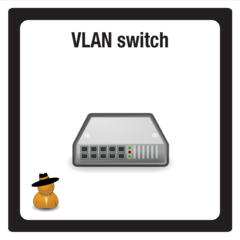
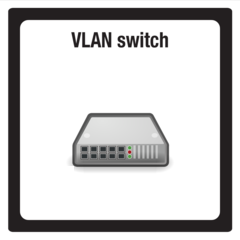
added asset and infocon to the hud moved hud to top of page moved lo0t and patch to hud built out the tile area to a full 6x6 grid ready for other tile layouts restored the tiles without characters (these got overwritten somehow)

Changed region(s): [[0.1167, 0.7, 0.2625, 0.9042]]

diff --git a/html/app/index.html b/html/app/index.html
@@ -32,6 +32,30 @@
             <div class="header">
                 <h1><span class="red">[</span>d0x3d!<span class="red">]</span></h1>
             </div>
+                        <div class="row hud">
+                <div class="col-md-2" id="loot">
+                    <img src="images/backs/back_lo0t.png" class="img-responsive" width="240" height="176" alt="lo0t cards">
+                </div>
+
+                <div class="col-md-1">
+                    <img src="images/stickers/sticker_auth_unclaimed.png" width="120" height="120" class="asset img-responsive" alt="Authentication Credentials" data-placement="bottom" data-toggle="tooltip" data-container="body" data-html="true" title="<h2>[authentication credentials]</h2> <p>Authentication credentials are data you use to prove your identity. They can be something you have (like a driver’s license), something you know (like a password), or something you are (like a fingerprint). When stolen, someone could use these credentials to impersonate you.</p><p>You can retrieve your authentication credentials by placing 4 matching lo0t cards on the Certificate Services or Single Sign On Service nodes of the network</p>">
+                    <br>                    
+                    <img src="images/stickers/sticker_financial_unclaimed.png" width="120" height="120" class="asset img-responsive" alt="Financial Data"  data-placement="bottom" data-toggle="tooltip" data-container="body" data-html="true" title="<h2>[financial data]</h2> <p>If it’s worth money or about money, it's financial data: credit card numbers, bank account numbers, tax data, electronic gift certificates, e-cash, quarterly earnings reports, etc.</p><p>You can retrieve your financial data by placing 4 matching lo0t cards on the Customer Database or Sales Database nodes of the network</p>">
+                </div>
+                <div class="col-md-1">
+                    <img src="images/stickers/sticker_ip_unclaimed.png" width="120" height="120" class="asset img-responsive" alt="Intellectual Property" data-placement="bottom" data-toggle="tooltip" data-container="body" data-html="true" title="<h2>[intellectual property]</h2> <p>Intellectual property is data that came out of your head or your hands, like inventions and creative works: an essay for school, an original photo, a piece of software, a secret recipe, your band’s demo tracks, your YouTube videos, etc.</p><p>You can retrieve your intellectual property by placing 4 matching lo0t cards on the Network File Server or Backup File Server nodes of the network</p>">
+                    <br>                    
+                    <img src="images/stickers/sticker_pii_unclaimed.png" width="120" height="120" class="asset img-responsive" alt="Personally Identifiable Information" data-placement="bottom" data-toggle="tooltip" data-container="body" data-html="true" title="<h2>[personally identifiable information]</h2> <p>Personally identifiable information is data, about you or someone else: your home phone number, your address, photos of you and your friends, your grades, your medical records, etc.</p><p>You can retrieve your personally identifiable information by placing 4 matching lo0t cards on the IMAP Server or SMTP Server nodes of the network</p>">
+                </div>
+
+                <div class="col-md-6" id="infocon">
+                    <img src="images/infocon/infocon0.png" class="img-responsive" width="720" height="299" alt="infocon">
+                </div>
+
+                <div class="col-md-2" id="patch">
+                    <img src="images/backs/back_patch.png" class="img-responsive" width="240" height="176" alt="patch cards">
+                </div>
+            </div>
 
             <div class="row">
                 <div class="col-md-10 col-md-offset-1" id="player3">
@@ -47,10 +71,51 @@
                 <div class="col-md-10" id="tiles">
                     <!-- tiles, lo0t and patch cards -->
                     <div class="row" id="row1">
-                        <div class="col-sm-2" id="loot">
-                            <img src="images/backs/back_lo0t.png" class="img-responsive" width="240" height="176" alt="lo0t cards">
+                        <div class="col-sm-2" id="tile-1">
+                            <div class="tile scroll img-responsive">
+                                <div class="tile-wrapper" id="00">
+                                    <img src="" class="img-responsive" width="240" height="240" alt="">
+                                    <div class="tile-detail">
+                                        <div class="actions">
+                                            <div class="btn-group-vertical">
+                                                <button type="button" class="btn btn-info disabled">Move <span class="movenum"></span> of 3</button>
+                                                <button type="button" class="btn btn-default compromise">compromise</button>
+                                                <button type="button" class="btn btn-default pickup">pick up loot</button>
+                                                <button type="button" class="btn btn-default drop">drop loot</button>
+                                                <button type="button" class="btn btn-default give">give loot</button>
+                                                <button type="button" class="btn btn-default exchange">exchange loot</button>
+                                                <button type="button" class="btn btn-default move">move here</button>
+                                                <button type="button" class="btn btn-default recover">recover asset</button>
+                                                <button type="button" class="btn btn-default skip" onclick="skipMove()">skip move</button>
+                                            </div>
+                                        </div>
+                                    </div>
+                                </div>
+                            </div>
                         </div>
-                        <div class="col-sm-2 col-sm-offset-2" id="tile1">
+                        <div class="col-sm-2" id="tile0">
+                            <div class="tile scroll img-responsive">
+                                <div class="tile-wrapper" id="01">
+                                    <img src="" class="img-responsive" width="240" height="240" alt="">
+                                    <div class="tile-detail">
+                                        <div class="actions">
+                                            <div class="btn-group-vertical">
+                                                <button type="button" class="btn btn-info disabled">Move <span class="movenum"></span> of 3</button>
+                                                <button type="button" class="btn btn-default compromise">compromise</button>
+                                                <button type="button" class="btn btn-default pickup">pick up loot</button>
+                                                <button type="button" class="btn btn-default drop">drop loot</button>
+                                                <button type="button" class="btn btn-default give">give loot</button>
+                                                <button type="button" class="btn btn-default exchange">exchange loot</button>
+                                                <button type="button" class="btn btn-default move">move here</button>
+                                                <button type="button" class="btn btn-default recover">recover asset</button>
+                                                <button type="button" class="btn btn-default skip" onclick="skipMove()">skip move</button>
+                                            </div>
+                                        </div>
+                                    </div>
+                                </div>
+                            </div>
+                        </div>
+                        <div class="col-sm-2" id="tile1">
                             <div class="tile scroll img-responsive">
                                 <div class="tile-wrapper" id="02">
                                     <img src="" class="img-responsive" width="240" height="240" alt="">
@@ -94,12 +159,75 @@
                                 </div>
                             </div>
                         </div>
-                        <div class="col-sm-2 col-sm-offset-2" id="patch">
-                            <img src="images/backs/back_patch.png" class="img-responsive" width="240" height="176" alt="patch cards">
+                        <div class="col-sm-2" id="tile1">
+                            <div class="tile scroll img-responsive">
+                                <div class="tile-wrapper" id="04">
+                                    <img src="" class="img-responsive" width="240" height="240" alt="">
+                                    <div class="tile-detail">
+                                        <div class="actions">
+                                            <div class="btn-group-vertical">
+                                                <button type="button" class="btn btn-info disabled">Move <span class="movenum"></span> of 3</button>
+                                                <button type="button" class="btn btn-default compromise">compromise</button>
+                                                <button type="button" class="btn btn-default pickup">pick up loot</button>
+                                                <button type="button" class="btn btn-default drop">drop loot</button>
+                                                <button type="button" class="btn btn-default give">give loot</button>
+                                                <button type="button" class="btn btn-default exchange">exchange loot</button>
+                                                <button type="button" class="btn btn-default move">move here</button>
+                                                <button type="button" class="btn btn-default recover">recover asset</button>
+                                                <button type="button" class="btn btn-default skip" onclick="skipMove()">skip move</button>
+                                            </div>
+                                        </div>
+                                    </div>
+                                </div>
+                            </div>
+                        </div>
+                        <div class="col-sm-2" id="tile1">
+                            <div class="tile scroll img-responsive">
+                                <div class="tile-wrapper" id="05">
+                                    <img src="" class="img-responsive" width="240" height="240" alt="">
+                                    <div class="tile-detail">
+                                        <div class="actions">
+                                            <div class="btn-group-vertical">
+                                                <button type="button" class="btn btn-info disabled">Move <span class="movenum"></span> of 3</button>
+                                                <button type="button" class="btn btn-default compromise">compromise</button>
+                                                <button type="button" class="btn btn-default pickup">pick up loot</button>
+                                                <button type="button" class="btn btn-default drop">drop loot</button>
+                                                <button type="button" class="btn btn-default give">give loot</button>
+                                                <button type="button" class="btn btn-default exchange">exchange loot</button>
+                                                <button type="button" class="btn btn-default move">move here</button>
+                                                <button type="button" class="btn btn-default recover">recover asset</button>
+                                                <button type="button" class="btn btn-default skip" onclick="skipMove()">skip move</button>
+                                            </div>
+                                        </div>
+                                    </div>
+                                </div>
+                            </div>
                         </div>
                     </div>
                     <div class="row" id="row2">
-                        <div class="col-sm-2 col-sm-offset-2" id="tile3">
+                        <div class="col-sm-2" id="tile1">
+                            <div class="tile scroll img-responsive">
+                                <div class="tile-wrapper" id="10">
+                                    <img src="" class="img-responsive" width="240" height="240" alt="">
+                                    <div class="tile-detail">
+                                        <div class="actions">
+                                            <div class="btn-group-vertical">
+                                                <button type="button" class="btn btn-info disabled">Move <span class="movenum"></span> of 3</button>
+                                                <button type="button" class="btn btn-default compromise">compromise</button>
+                                                <button type="button" class="btn btn-default pickup">pick up loot</button>
+                                                <button type="button" class="btn btn-default drop">drop loot</button>
+                                                <button type="button" class="btn btn-default give">give loot</button>
+                                                <button type="button" class="btn btn-default exchange">exchange loot</button>
+                                                <button type="button" class="btn btn-default move">move here</button>
+                                                <button type="button" class="btn btn-default recover">recover asset</button>
+                                                <button type="button" class="btn btn-default skip" onclick="skipMove()">skip move</button>
+                                            </div>
+                                        </div>
+                                    </div>
+                                </div>
+                            </div>
+                        </div>
+                        <div class="col-sm-2" id="tile3">
                             <div class="tile scroll img-responsive">
                                 <div class="tile-wrapper" id="11">
                                     <img src="" class="img-responsive" width="240" height="240" alt="">
@@ -184,6 +312,28 @@
 											</div>
 										</div>
 									</div>
+                                </div>
+                            </div>
+                        </div>
+                        <div class="col-sm-2" id="tile1">
+                            <div class="tile scroll img-responsive">
+                                <div class="tile-wrapper" id="15">
+                                    <img src="" class="img-responsive" width="240" height="240" alt="">
+                                    <div class="tile-detail">
+                                        <div class="actions">
+                                            <div class="btn-group-vertical">
+                                                <button type="button" class="btn btn-info disabled">Move <span class="movenum"></span> of 3</button>
+                                                <button type="button" class="btn btn-default compromise">compromise</button>
+                                                <button type="button" class="btn btn-default pickup">pick up loot</button>
+                                                <button type="button" class="btn btn-default drop">drop loot</button>
+                                                <button type="button" class="btn btn-default give">give loot</button>
+                                                <button type="button" class="btn btn-default exchange">exchange loot</button>
+                                                <button type="button" class="btn btn-default move">move here</button>
+                                                <button type="button" class="btn btn-default recover">recover asset</button>
+                                                <button type="button" class="btn btn-default skip" onclick="skipMove()">skip move</button>
+                                            </div>
+                                        </div>
+                                    </div>
                                 </div>
                             </div>
                         </div>
@@ -457,7 +607,29 @@
                         </div>
                     </div>
                     <div class="row" id="row5">
-                        <div class="col-sm-2 col-sm-offset-2" id="tile19">
+                        <div class="col-sm-2" id="tile1">
+                            <div class="tile scroll img-responsive">
+                                <div class="tile-wrapper" id="40">
+                                    <img src="" class="img-responsive" width="240" height="240" alt="">
+                                    <div class="tile-detail">
+                                        <div class="actions">
+                                            <div class="btn-group-vertical">
+                                                <button type="button" class="btn btn-info disabled">Move <span class="movenum"></span> of 3</button>
+                                                <button type="button" class="btn btn-default compromise">compromise</button>
+                                                <button type="button" class="btn btn-default pickup">pick up loot</button>
+                                                <button type="button" class="btn btn-default drop">drop loot</button>
+                                                <button type="button" class="btn btn-default give">give loot</button>
+                                                <button type="button" class="btn btn-default exchange">exchange loot</button>
+                                                <button type="button" class="btn btn-default move">move here</button>
+                                                <button type="button" class="btn btn-default recover">recover asset</button>
+                                                <button type="button" class="btn btn-default skip" onclick="skipMove()">skip move</button>
+                                            </div>
+                                        </div>
+                                    </div>
+                                </div>
+                            </div>
+                        </div>
+                        <div class="col-sm-2" id="tile19">
                             <div class="tile scroll img-responsive">
                                 <div class="tile-wrapper" id="41">
                                     <img src="" class="img-responsive" width="240" height="240" alt="">
@@ -545,9 +717,75 @@
                                 </div>
                             </div>
                         </div>
+                        <div class="col-sm-2" id="tile1">
+                            <div class="tile scroll img-responsive">
+                                <div class="tile-wrapper" id="45">
+                                    <img src="" class="img-responsive" width="240" height="240" alt="">
+                                    <div class="tile-detail">
+                                        <div class="actions">
+                                            <div class="btn-group-vertical">
+                                                <button type="button" class="btn btn-info disabled">Move <span class="movenum"></span> of 3</button>
+                                                <button type="button" class="btn btn-default compromise">compromise</button>
+                                                <button type="button" class="btn btn-default pickup">pick up loot</button>
+                                                <button type="button" class="btn btn-default drop">drop loot</button>
+                                                <button type="button" class="btn btn-default give">give loot</button>
+                                                <button type="button" class="btn btn-default exchange">exchange loot</button>
+                                                <button type="button" class="btn btn-default move">move here</button>
+                                                <button type="button" class="btn btn-default recover">recover asset</button>
+                                                <button type="button" class="btn btn-default skip" onclick="skipMove()">skip move</button>
+                                            </div>
+                                        </div>
+                                    </div>
+                                </div>
+                            </div>
+                        </div>
                     </div>
                     <div class="row" id="row6">
-                        <div class="col-sm-2 col-sm-offset-4" id="tile23">
+                        <div class="col-sm-2" id="tile1">
+                            <div class="tile scroll img-responsive">
+                                <div class="tile-wrapper" id="50">
+                                    <img src="" class="img-responsive" width="240" height="240" alt="">
+                                    <div class="tile-detail">
+                                        <div class="actions">
+                                            <div class="btn-group-vertical">
+                                                <button type="button" class="btn btn-info disabled">Move <span class="movenum"></span> of 3</button>
+                                                <button type="button" class="btn btn-default compromise">compromise</button>
+                                                <button type="button" class="btn btn-default pickup">pick up loot</button>
+                                                <button type="button" class="btn btn-default drop">drop loot</button>
+                                                <button type="button" class="btn btn-default give">give loot</button>
+                                                <button type="button" class="btn btn-default exchange">exchange loot</button>
+                                                <button type="button" class="btn btn-default move">move here</button>
+                                                <button type="button" class="btn btn-default recover">recover asset</button>
+                                                <button type="button" class="btn btn-default skip" onclick="skipMove()">skip move</button>
+                                            </div>
+                                        </div>
+                                    </div>
+                                </div>
+                            </div>
+                        </div>
+                        <div class="col-sm-2" id="tile1">
+                            <div class="tile scroll img-responsive">
+                                <div class="tile-wrapper" id="51">
+                                    <img src="" class="img-responsive" width="240" height="240" alt="">
+                                    <div class="tile-detail">
+                                        <div class="actions">
+                                            <div class="btn-group-vertical">
+                                                <button type="button" class="btn btn-info disabled">Move <span class="movenum"></span> of 3</button>
+                                                <button type="button" class="btn btn-default compromise">compromise</button>
+                                                <button type="button" class="btn btn-default pickup">pick up loot</button>
+                                                <button type="button" class="btn btn-default drop">drop loot</button>
+                                                <button type="button" class="btn btn-default give">give loot</button>
+                                                <button type="button" class="btn btn-default exchange">exchange loot</button>
+                                                <button type="button" class="btn btn-default move">move here</button>
+                                                <button type="button" class="btn btn-default recover">recover asset</button>
+                                                <button type="button" class="btn btn-default skip" onclick="skipMove()">skip move</button>
+                                            </div>
+                                        </div>
+                                    </div>
+                                </div>
+                            </div>
+                        </div>
+                        <div class="col-sm-2" id="tile23">
                             <div class="tile scroll img-responsive">
                                 <div class="tile-wrapper" id="52">
                                     <img src="" class="img-responsive" width="240" height="240" alt="">
@@ -591,6 +829,50 @@
                                 </div>
                             </div>
                         </div>
+                        <div class="col-sm-2" id="tile1">
+                            <div class="tile scroll img-responsive">
+                                <div class="tile-wrapper" id="54">
+                                    <img src="" class="img-responsive" width="240" height="240" alt="">
+                                    <div class="tile-detail">
+                                        <div class="actions">
+                                            <div class="btn-group-vertical">
+                                                <button type="button" class="btn btn-info disabled">Move <span class="movenum"></span> of 3</button>
+                                                <button type="button" class="btn btn-default compromise">compromise</button>
+                                                <button type="button" class="btn btn-default pickup">pick up loot</button>
+                                                <button type="button" class="btn btn-default drop">drop loot</button>
+                                                <button type="button" class="btn btn-default give">give loot</button>
+                                                <button type="button" class="btn btn-default exchange">exchange loot</button>
+                                                <button type="button" class="btn btn-default move">move here</button>
+                                                <button type="button" class="btn btn-default recover">recover asset</button>
+                                                <button type="button" class="btn btn-default skip" onclick="skipMove()">skip move</button>
+                                            </div>
+                                        </div>
+                                    </div>
+                                </div>
+                            </div>
+                        </div>
+                        <div class="col-sm-2" id="tile1">
+                            <div class="tile scroll img-responsive">
+                                <div class="tile-wrapper" id="55">
+                                    <img src="" class="img-responsive" width="240" height="240" alt="">
+                                    <div class="tile-detail">
+                                        <div class="actions">
+                                            <div class="btn-group-vertical">
+                                                <button type="button" class="btn btn-info disabled">Move <span class="movenum"></span> of 3</button>
+                                                <button type="button" class="btn btn-default compromise">compromise</button>
+                                                <button type="button" class="btn btn-default pickup">pick up loot</button>
+                                                <button type="button" class="btn btn-default drop">drop loot</button>
+                                                <button type="button" class="btn btn-default give">give loot</button>
+                                                <button type="button" class="btn btn-default exchange">exchange loot</button>
+                                                <button type="button" class="btn btn-default move">move here</button>
+                                                <button type="button" class="btn btn-default recover">recover asset</button>
+                                                <button type="button" class="btn btn-default skip" onclick="skipMove()">skip move</button>
+                                            </div>
+                                        </div>
+                                    </div>
+                                </div>
+                            </div>
+                        </div>
                     </div>
                 </div>
 
@@ -599,10 +881,7 @@
                 </div>
             </div>
 
-            <div class="row hud">
-                <div class="col-md-4 col-md-offset-2">Infocon data here</div>
-                <div class="col-md-4">retrieved asset data here</div>
-            </div>
+
 
             <div id="player1">
                 <div class="row">

diff --git a/html/app/scripts/main.js b/html/app/scripts/main.js
@@ -1,4 +1,4 @@
-var BACKGROUND_COLOUR = '#F7F7D6';
+var BACKGROUND_COLOUR = '#FFA500';
 var currentplayer = 0; // currently active player
 var players = [];
 // set up the default board: a 6x6 array of 2, 4, 6, 6, 4, 2 cards
@@ -277,6 +277,8 @@ $( document ).ready(function() {
 	for(i=0;i<players.length;++i) {
 		showplayer(i,players[i].xpos,players[i].ypos);
 	}
+    // turn on tooltips
+    $('.asset').tooltip();
 	// resize tiles for current window
 	resizeTiles();
 	// resize tiles if window is resized
@@ -286,7 +288,7 @@ $( document ).ready(function() {
 	// centre the menus for each tile
 	$('.btn-group-vertical').css({
         'position' : 'absolute',
-        'left' : '30%',
+        'left' : '25%',
         'top' : '20%'
     });
 });

diff --git a/html/app/styles/main.css b/html/app/styles/main.css
@@ -108,6 +108,7 @@ float:left;
     width:100%;
     height:100%;
     position: relative;
+    border-radius: 3px;
 }
 
 .tile ximg {
